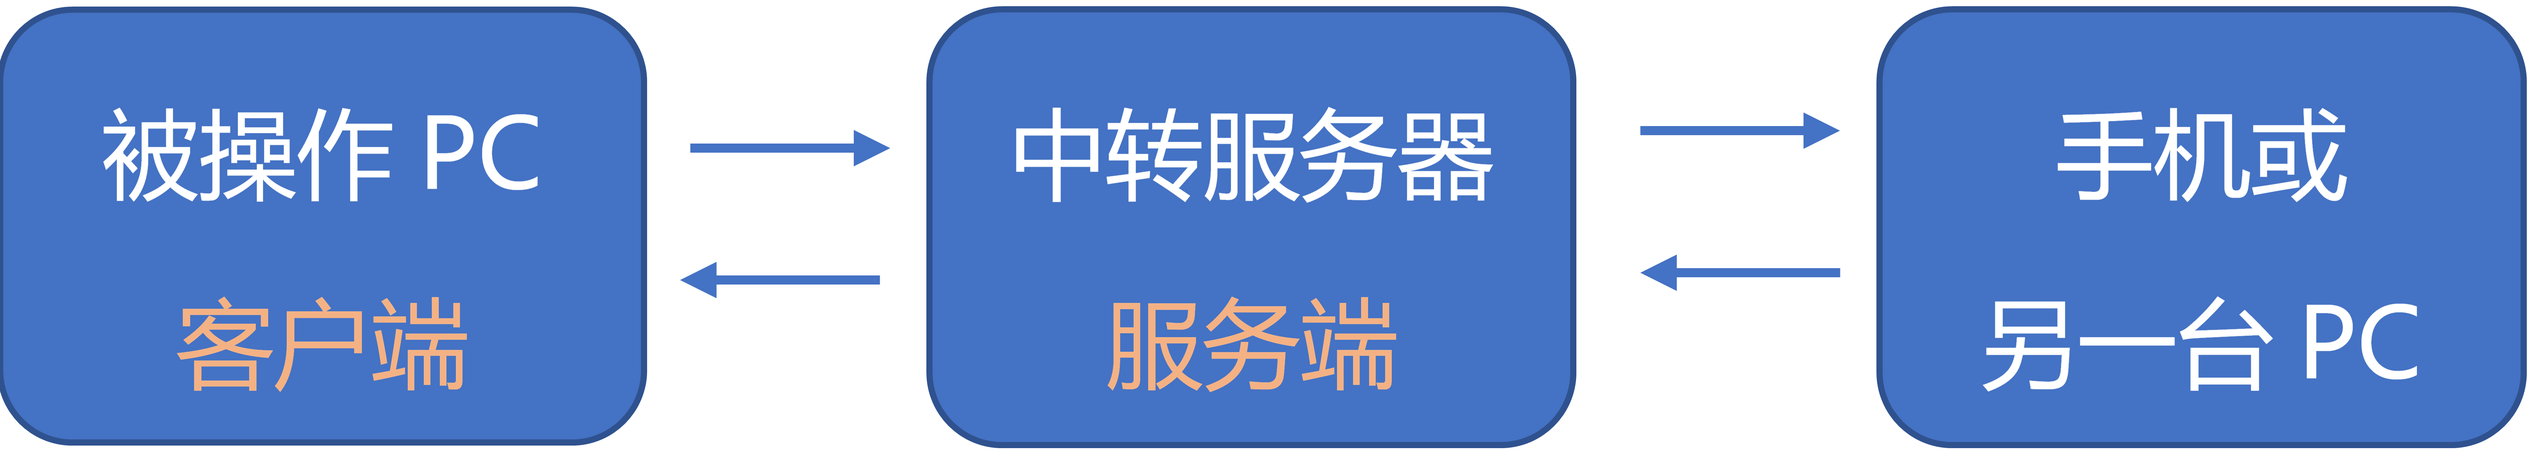
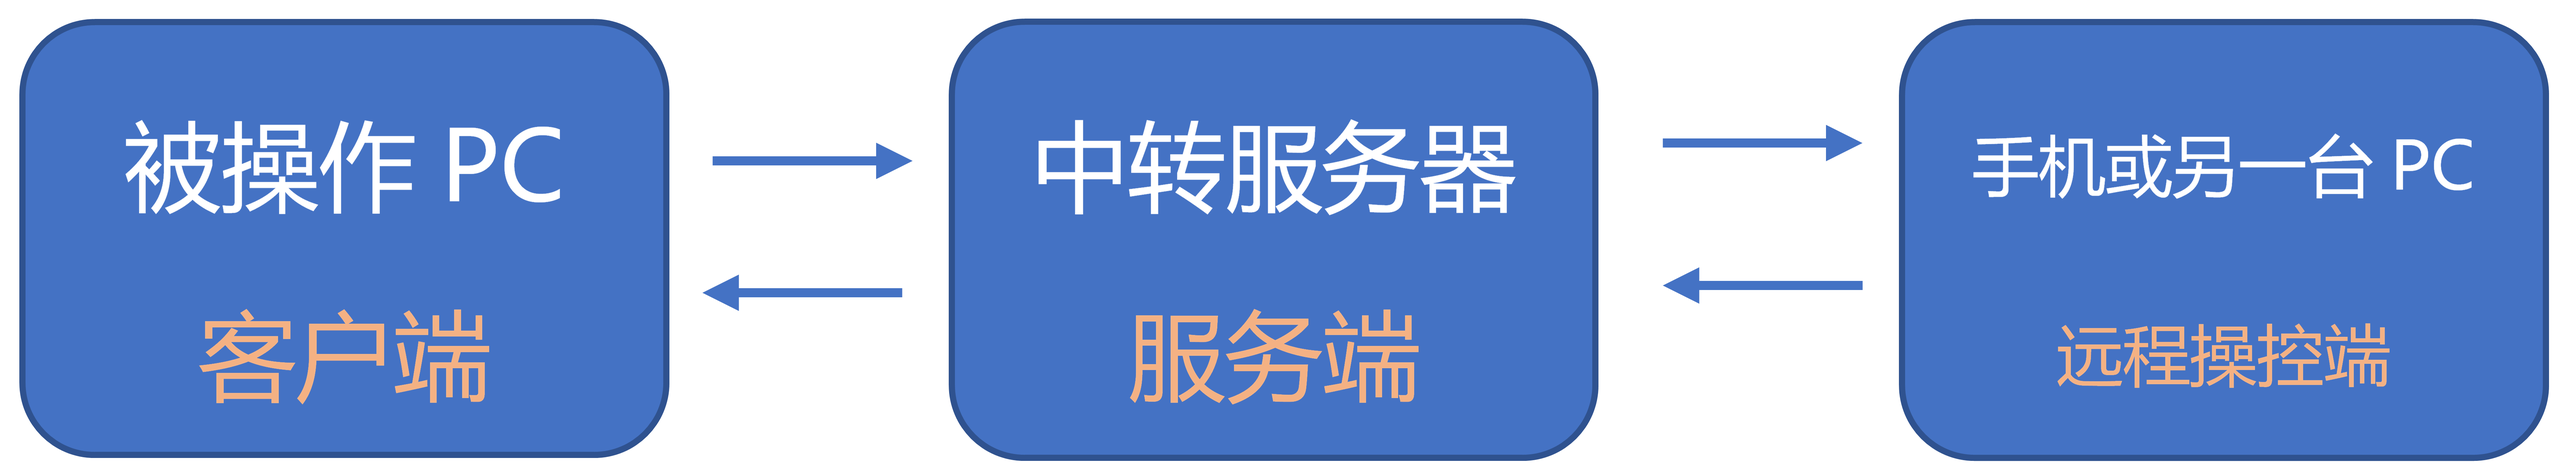
frp remote desktop-2.0

diff --git a/aboutWebsite/skillTree/frp/remoteDesktop.html b/aboutWebsite/skillTree/frp/remoteDesktop.html
@@ -14,19 +14,26 @@
             margin: 1rem 0 1rem 1rem;
             padding-left: 1rem;
             border-left: gray solid 4px;
-            font-style: oblique;
+        }
+
+        @media screen and (max-width: 800px) {
+            img {
+                width: 100%;
+            }
         }
     </style>
     <script src="/wholeSite/js/prism.js"></script>
     <link type="text/css" rel="stylesheet" href="/wholeSite/css/prism.css">
     <!-- Global site tag (gtag.js) - Google Analytics -->
-    <script async src="https: //www.googletagmanager.com/gtag/js?id=UA-156500969-1"></script>
+    <script async src="https://www.googletagmanager.com/gtag/js?id=UA-156500969-1"></script>
     <script>
         window.dataLayer = window.dataLayer || [];
         function gtag() { dataLayer.push(arguments); }
         gtag('js', new Date());
+
         gtag('config', 'UA-156500969-1');
     </script>
+
 </head>
 
 <body>
@@ -52,14 +59,10 @@
                     <li>半夜在床上拿iPad推Galgame（这才是最香的用处，手动滑稽）</li>
                     <li>笔记本连接台式机，两个桌面同时耍，笔记本上指使台式干一些脏重活后实时传回处理结果</li>
                 </ul>
-            </section>
-
-            <section id="mechanism">
-                <h2>原理：端口映射</h2>
-                <p>总的来说，就是把内网下的某一端口映射到公网下的某一端口。在远程桌面这一功能下，是将家里电脑的3389端口（windows默认远程桌面端口）映射至公网上的任意端口。然后通过公网上的这一端口访问家里电脑的远程桌面服务。
+                <br>
+                <p>先简单介绍下frp的原理。一句话说就是把内网下的某一端口映射到公网下的某一端口。在远程桌面这一功能下，是将家里电脑的3389端口（windows默认远程桌面端口）映射至公网上的任意端口。然后通过公网上的这一端口访问家里电脑的远程桌面服务。
                 </p>
                 <img src="rd_1.png" width="60%" style="margin: 1%;">
-                <p>具体的原理会在下面的设置中一步步地讲解，但是上面这张图是通讯原理的核心。</p>
             </section>
 
             <section id="serverSetting">
@@ -145,6 +148,40 @@ remote_port = 随意填（建议1000-65535中的某一个）</code></pre>
                 <p>注意电脑名称那一栏，正确的格式是ip:port的形式，这里的port就是在客户端配置文件frpc.ini里设置的remote_port</p>
                 <br>
                 <p>到这里就应该可以愉快地使用了，基础部分到此为止，下面开始讲一些进阶的用法</p>
+            </section>
+
+            <section id="mechanism">
+                <h2>原理详解：端口映射</h2>
+                <img src="rd_8.png" width="70%">
+                <p>整个启动顺序是服务端——客户端——远程端</p>
+                <p>服务端启动时，根据frps.ini中设置的bind_port来监听指定的端口，如7000端口</p>
+                <p>客户端启动时，本地的远程桌面专用端口3389与服务端的7000端口建立联系，同时告诉服务端fprc.ini中设置的remote_port。一旦客户端与服务端的通讯建立后，服务端收到remote_port的值，同时开始监听remote_port中设定的端口，如5200端口
+                </p>
+                <p>远程端随机挑选一个端口与服务端的remote_port端口建立通讯，服务端内部启动中转服务，整个通讯过程建立完毕。</p>
+                <p>所以整个过程就相当于把<b>内网的客户端的3389端口</b>映射到<b>服务器的5200端口</b>，成功达到内网穿透的目的。</p>
+            </section>
+
+            <section>
+                <h2>一个服务端对应多个客户端</h2>
+                <p>如何在一台云服务器上同时映射多台客户端？也就是说不仅我自己要在自己手机上远程控制自己的电脑，还要求小伙伴能通过我的服务器在他的手机上远程控制他的电脑。</p>
+                <p>这个很简单，在服务器上同时运行两个frp进程即可。</p>
+                <p>首先创造两份映射规则，即两份frps.ini文件。比如一份frps.ini配置文件中bind_port=7000，告诉服务器监听7000端口。另一份frps.ini配置文件中bind_port=7001，告诉服务器监听7001端口。当然这两份文件的文件名需要不一样（或者放在不同文件夹下）
+                </p>
+                <p>然后就根据这两份配置文件启动两个frp进程，如：</p>
+                <pre class="language-shell line-numbers"><code>nohup ./frps -c ./frps1.ini &
+nohup ./frps -c ./frps2.ini &</code></pre>
+                <p>然后在两台客户端PC上也分别设置两份映射规则，即两份frpc.ini文件。比如电脑A的frpc.ini中remote_port=5200并与服务端7000端口通讯。电脑B的frpc.ini中remote_port=5201并与服务端7001端口通讯。
+                </p>
+                <p>那么连接到服务器5200端口就能控制电脑A，连接5201端口就能控制电脑B。</p>
+                <p>整个原理如下：</p>
+                <img src="rd_9.png" width="30%">
+                <p>那么同理，一个客户端也是可以对应多个服务端的，只要同时根据不同的fprc.ini启动多个frp进程即可。</p>
+            </section>
+
+            <section id="NAT">
+                <h2>服务器为NAT的frp映射</h2>
+                <p>看图说话即可</p>
+                <img src="rd_10.png" width="50%">
             </section>
 
             <article id="comment">

diff --git a/aboutWebsite/skillTree/skillTree.html b/aboutWebsite/skillTree/skillTree.html
@@ -58,7 +58,8 @@
                 margin-top: 43px;
                 padding: 30px 15% 0 15%;
             }
-            .introduction{
+
+            .introduction {
                 margin-bottom: 30px;
             }
         }
@@ -69,7 +70,8 @@
                 padding: 3% 5% 0 5%;
                 font-size: 0.875rem;
             }
-            .introduction{
+
+            .introduction {
                 margin-bottom: 7%;
             }
         }
@@ -128,6 +130,14 @@
             </div>
         </article>
 
+        <article>
+            <h1>frp远程桌面设置教程</h1>
+            <div class="introduction">
+                <p>frp是一款功能强大的内网穿透工具，在gayhub上已经被star了超过35K次。frp的原理一句话说就是把内网下的某一端口映射到公网下的某一端口。在远程桌面这一功能下，是将家里电脑的3389端口（windows默认远程桌面端口）映射至公网上的任意端口。然后通过公网上的这一端口访问家里电脑的远程桌面服务。
+                </p>
+                <div class="href"><a href="./frp/remoteDesktop.html">查看更多</a></div>
+            </div>
+        </article>
     </main>
 </body>
 

diff --git a/homepage/homepage.html b/homepage/homepage.html
@@ -27,8 +27,8 @@
 
                 <div class="sortInfo">
                     <div class="updateInfo">
-                        <div class="lastUpdate">最近更新：2020.1.31</div>
-                        <div class="updateContent">更新内容：新增文章“安利两个字典APP”</div>
+                        <div class="lastUpdate">最近更新：2020.3.24</div>
+                        <div class="updateContent">更新内容：SSR教程第4.0版</div>
                     </div>
                     <div class="sortCatalog">
                         <ul>
@@ -61,8 +61,8 @@
 
                 <div class="sortInfo">
                     <div class="updateInfo">
-                        <div class="lastUpdate">最近更新：2020.1.30</div>
-                        <div class="updateContent">更新内容：新增“WebHook设置方法”</div>
+                        <div class="lastUpdate">最近更新：2020.4.24</div>
+                        <div class="updateContent">更新内容：新增“frp远程桌面教程”</div>
                     </div>
                     <div class="sortCatalog">
                         <ul>

diff --git a/wholeSite/css/H5_stripeLayout.css b/wholeSite/css/H5_stripeLayout.css
@@ -31,7 +31,7 @@ code {
 
 img {
     display: block;
-    margin: 1% auto;
+    margin: 1%;
 }
 
 @media screen and (min-device-width: 801px) {
